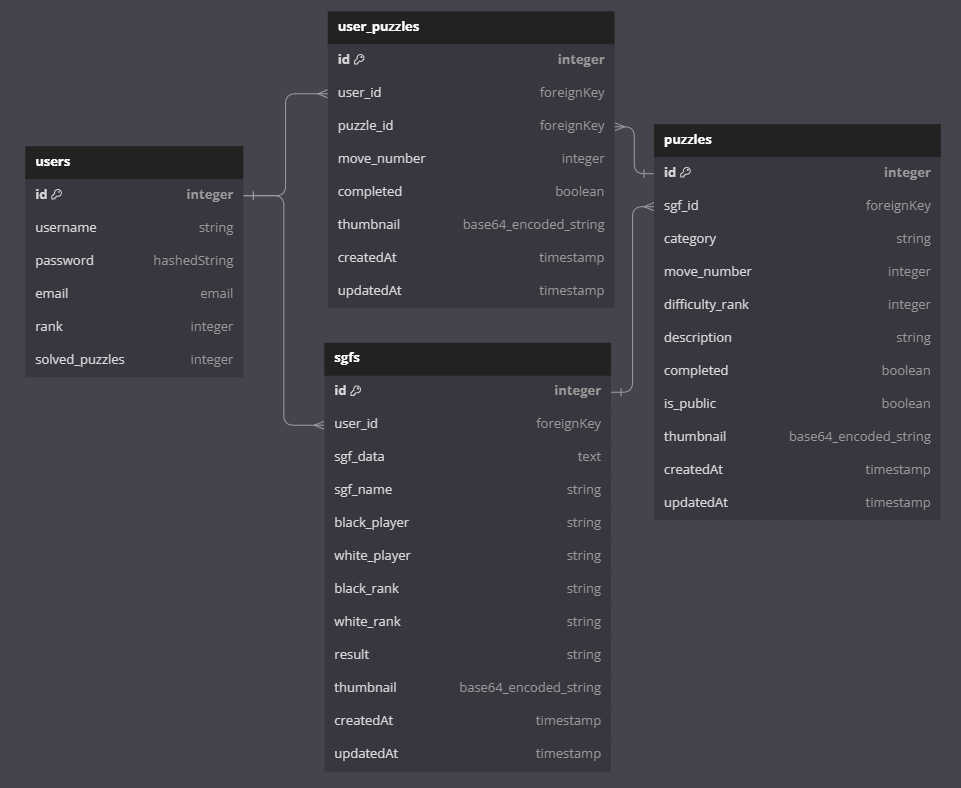
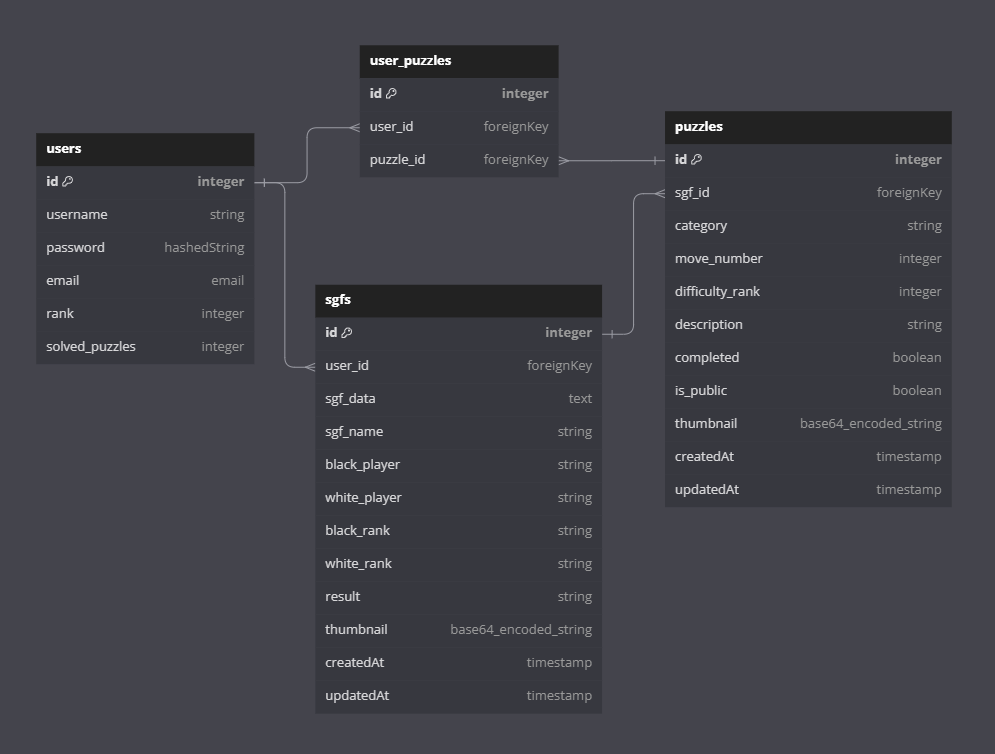
nevermind, schema originally was correct, no need to add anything to the join table, the isPublic boolean column will work just fine

diff --git a/README.md b/README.md
@@ -27,11 +27,9 @@
 - `PUT /api/puzzles/:puzzle_id`: Edit the description, category, and other info of the public puzzle (requires priviledges / reputation)
 - `DELETE /api/puzzles/:puzzle_id`: Delete a public puzzle (Must be admin)
 
-### UserPuzzles (Endpoints for the user's puzzles)
-
-- `Get /api/userPuzzles/completed?source=[own|public]`: Get all completed puzzles of the current user, filtered by source. The optional source query parameter can be set to own to return only puzzles created from the user’s private SGFs, or public to return only puzzles created from public puzzles. If the source parameter is not provided, all completed puzzles (user's own puzzles and public puzzles) are returned.
-
 ### Users (Endpoints of user specific info. Includes the user's account information like user's rank, and count of solved puzzles by category)
+
+- `Get /api/users/:user_id/puzzles/completed?source=[own|public]`: Get all completed puzzles of the current user, filtered by source. The optional source query parameter can be set to own to return only puzzles created from the user’s private SGFs, or public to return only puzzles created from public puzzles. If the source parameter is not provided, all completed puzzles (user's own puzzles and public puzzles) are returned.
 
 - `GET /api/users/:user_id`: Get the user's ranking (elo), number of total puzzles completed, and a count of puzzle completed for each category
 
